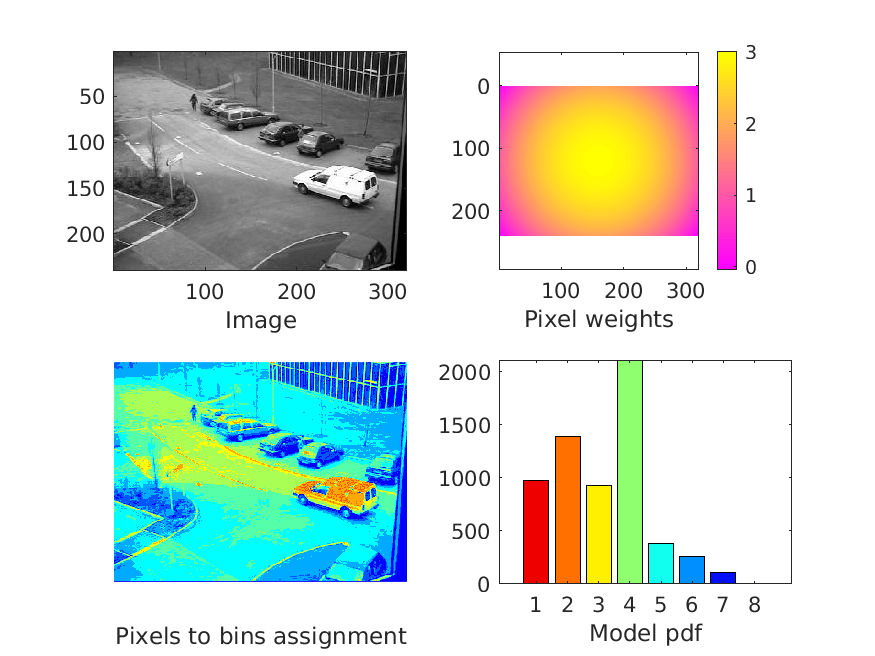
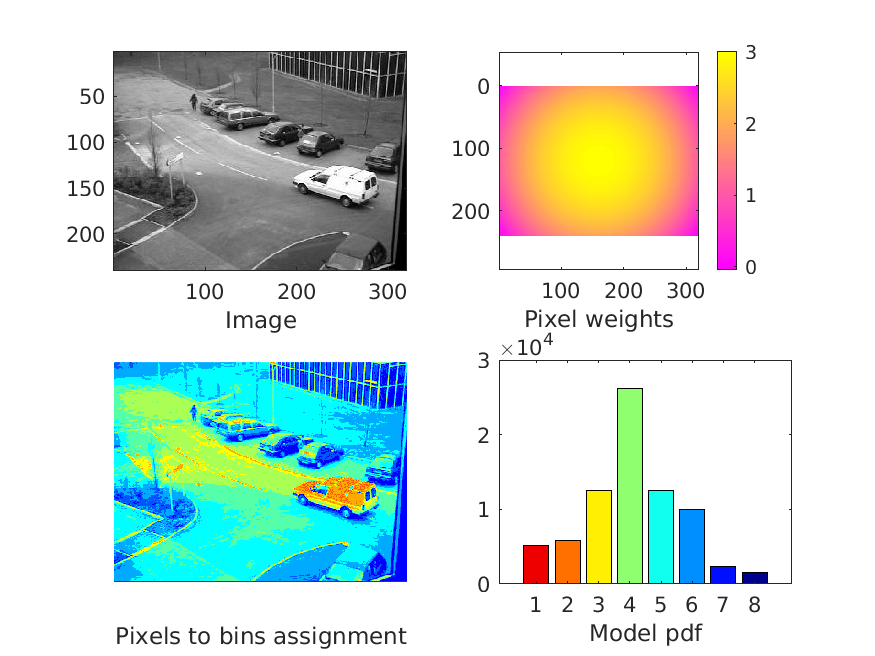
Add videos

diff --git a/Code/work_particle.m b/Code/work_particle.m
@@ -45,20 +45,19 @@ w = zeros(1,NParticle);
 
 % for t=2:NumImages
 next_frame=Video(od{:},2);
-for i = 1:NParticle
+pos =1;
+for ii = 1:NParticle
      % create a random point inside the ROI
-    while true
-        new_point = round( xpPred(i,:) + ([sig_x sig_y].^2).*randn(1,length(x_init)) );
-        if frame_roi.point_inside(new_point)
-        	break;
-        end
-    end
-    xpPred(i,:) = new_point;
+     new_point = round( xpPred(ii,:) + ([sig_x sig_y].^2).*randn(1,length(x_init)) );
+     if frame_roi.point_inside(new_point)
+        xpPred(pos,:) = new_point;
+        pos = pos +1;
+     end
 end
 
 % Evaluate Importance Weights
-for i=1:NParticle
-    particle = xpPred(i,:);
+for ii=1:NParticle
+    particle = xpPred(ii,:);
     % - extract a patch around xpPred(i,:)
     patch_roi = xRoi(particle, target_roi.width,target_roi.height);
     patch_image = patch_roi.getRoiImage(next_frame);
@@ -67,7 +66,7 @@ for i=1:NParticle
     % - compute batt. coeff
     rho = region_rho(next_frame, patch_roi, target_model, NBins);        
     % - compute weight w(i)
-    w(i) = exp(-1 * lambda * (1-rho)^2); 
+    w(ii) = exp(-1 * lambda * (1-rho)^2); 
 end
 % Normalise the weights.
 w = w./sum(w); 

diff --git a/Code/demo_algo_meanshift_toy.m b/Code/demo_algo_meanshift_toy.m
@@ -3,7 +3,7 @@ clearvars
 close all
 imtool close all
 
-load("cars.mat");
+load("toy.mat");
 od = repmat({':'},1,ndims(Video)-1);
 ROI=xRoi(ROI_Center,ROI_Width,ROI_Height);
 
@@ -37,7 +37,7 @@ for h = 1:Video_Height
     
     patch_model = xRoi(patch).color_model(patch);xlabel('Image patch');
     subplot(2,3,6); ax = bar([target_model; patch_model]', 'Barwidth', 2);
-    xlabel('Model pdf/Patch pdf'); axis on; ylim([0 2000]); 
+    xlabel('Model pdf/Patch pdf'); axis on; ylim([0 800]); 
     
     rho = bhattacharyya_coeff(target_model,patch_model);
     subplot(2,3,[1 2 4 5]);xlabel(sprintf('Batacharaya coeff is %1.3f',rho));
@@ -76,7 +76,7 @@ for w = 1:Video_Width
     
     patch_model = xRoi(patch).color_model(patch);xlabel('Image patch');
     subplot(2,3,6);bar([target_model; patch_model]', 'Barwidth', 2);
-    xlabel('Model pdf/Patch pdf'); axis on;ylim([0 2000]); 
+    xlabel('Model pdf/Patch pdf'); axis on;ylim([0 800]); 
 
     rho = bhattacharyya_coeff(target_model,patch_model);
     subplot(2,3,[1 2 4 5]);xlabel(sprintf('Batacharaya coeff is %1.3f',rho));

diff --git a/Code/generate_points_inside_box.m b/Code/generate_points_inside_box.m
@@ -2,15 +2,14 @@ function xp = generate_points_inside_box(NParticles,center,inside_roi,sig_x,sig_
 %UNTITLED3 Summary of this function goes here
 %   Detailed explanation goes here
     xp = zeros(NParticles,length(center));
-    for i = 1:NParticles
+    pos = 1
+    for ii = 1:NParticles
         % create a random point inside the ROI
-        while true
-            new_point = round( center + ([sig_x sig_y].^2).*randn(1,length(center)) );
-            if inside_roi.point_inside(new_point)
-                break;
-            end
-        end
-        xp(i,:) = new_point; 
+        new_point = round( center + ([sig_x sig_y].^2).*randn(1,length(center)) );
+        if inside_roi.point_inside(new_point)
+           xp(pos,:) = new_point;
+           pos = pos+1;
+        end 
     end
 end
 

diff --git a/Code/demo_toy.m b/Code/demo_toy.m
@@ -40,7 +40,7 @@ for frameNo = 2:NumFrames
     frame_bg = Video(od{:},frameNo);
     %frame = imsubtract(background .* 0.25,frame_bg);
     frame = imsubtract(background,frame_bg);
-    frame = frame_bg - background .* 0.75;
+    frame = frame_bg - background .* 0.95;
 
 %     frame = Video(od{:},frameNo);
     
